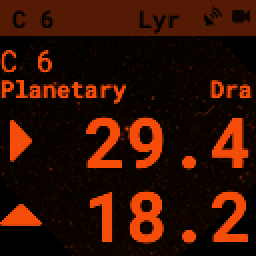
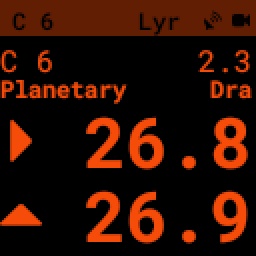
docs: document Contrast Reserve and annotate the Object Details screen (#471)
* docs: document Contrast Reserve and annotate the Object Details screen

Add a Contrast Reserve subsection to the user guide explaining the
upper-right number on the Object Details screen: what it estimates, how
it's derived from sky brightness, telescope aperture, and eyepiece
magnification, an interpretation table, its prerequisites, and the
dedicated page reached with SQUARE.

Update the Object Details screenshots (Push-To and catalog details) so the
contrast reserve value is visible, and add two annotated figures labelling
every region of those two views.

* docs: refresh Object Details screenshots for PR #394, document catalog separators

The Object Details screen changed with PR #394 (#394): angular size now
shows with a unit (°/′/″), the notes group descriptions by catalog behind
labelled separator rules, and catalog images carry NSEW + size overlays.

- Recapture object_details_01/02/03, the Contrast Reserve page, and both
  annotated callout views from the post-#394 screen (C 6, contrast 1.6)
- Add a "Catalog separator" callout to the annotated catalog-details view
- Explain the labelled catalog-separator rules and unit-aware size in prose

* docs: recapture Object Details push-to in Alt/Az mode

The headless config had the global mount_type set to EQ, so the push-to
lines showed +/- RA-Dec offsets instead of the Alt/Az direction arrows —
which also contradicted the "Arrow = turn left/right" annotation labels.
[…]

Pull request: docs: document Contrast Reserve and annotate the Object Details screen
## What

Documents the **Contrast Reserve** feature in the user guide and refreshes the Object Details screenshots.

### Docs (`user_guide.rst`, Object Details section)
- New **Contrast Reserve** subsection: what the upper-right number estimates, how it's derived (object brightness/size vs. sky brightness, telescope aperture, eyepiece magnification), the dedicated page reached with **SQUARE**, an interpretation table using the exact on-screen phrases ("Object is not visible" → "Very easy to see"), prerequisites (active telescope + eyepiece, an SQM reading, known magnitude/size), and a note tying it to the SQM.
- A forward-link to it from the Push-To prose.
- New **What each part of the screen shows** subsection with two annotated layout figures.

### Screenshots
- `object_details_01.png` / `object_details_03.png` — updated so the contrast reserve value shows in the upper right (captured on Caldwell 6 in the house amber style).
- `object_details_contrast.png` — new: the Contrast Reserve page.
- `object_details_pushto_annotated.png` / `object_details_notes_annotated.png` — new: labelled diagrams of the Push-To and catalog-details views.

## Testing
- `sphinx-build -n` (nitpicky) builds clean; both new cross-references resolve.

🤖 Generated with [Claude Code](https://claude.com/claude-code)

diff --git a/docs/source/user_guide.rst b/docs/source/user_guide.rst
@@ -254,6 +254,10 @@ view, getting them below 0.25 (half the true field) should put the object in vie
 Closer to zero means more centered.  For a very dim object, knowing it's dead center and
 consulting the object image can make all the difference.
 
+The number in the upper right is the object's
+:ref:`contrast reserve <user_guide:contrast reserve>` — an estimate of how easily it
+should show in your eyepiece tonight.
+
 .. image:: images/user_guide/object_details_02.png
 
 The PiFinder can display images of every object in its catalog.  See the section on
@@ -261,9 +265,70 @@ The PiFinder can display images of every object in its catalog.  See the section
 
 .. image:: images/user_guide/object_details_03.png
 
-Depending on the catalog, the PiFinder may have detailed notes along with Type,
-constellation, magnitude, and size.  Use the **+/-** keys to scroll the notes field.  At
-the bottom of the notes is a count of how many times you've logged this object.
+Depending on the catalog, the PiFinder may have detailed notes alongside the object's type,
+constellation, magnitude, and size — the size is shown in degrees, arcminutes, or arcseconds,
+whichever best suits the object.  Use the **+/-** keys to scroll the notes.
+
+Many objects carry more than one catalog designation, and the notes can gather a description
+from each.  A bright horizontal rule labelled with the catalog and number — for example
+*NGC 6543* — sets one catalog's notes off from the next, so you can see at a glance where
+each note comes from.  The notes finish with a count of how many times you've logged the
+object, marked by its own rule (it reads *Not Logged* until your first sighting).
+
+What each part of the screen shows
+^^^^^^^^^^^^^^^^^^^^^^^^^^^^^^^^^^^
+
+The Object Details screen packs a lot in.  These two views label every part — the Push-To
+screen, and the catalog details you reach by pressing **SQUARE**:
+
+.. image:: images/user_guide/object_details_pushto_annotated.png
+
+.. image:: images/user_guide/object_details_notes_annotated.png
+
+Contrast Reserve
+^^^^^^^^^^^^^^^^^
+
+The number in the upper right of the Object Details screen is the **contrast reserve** — an
+estimate of how easily an object should stand out in your eyepiece.  It weighs the object's
+brightness and size against your sky brightness, your telescope's aperture, and the
+magnification of your active eyepiece, then compares the result to what the eye can detect.
+A higher number means the object should be easier to see.
+
+.. image:: images/user_guide/object_details_contrast.png
+
+Keep pressing **SQUARE** to reach the Contrast Reserve page, which shows the value on its
+own with a plain-language reading of what to expect:
+
+.. list-table::
+   :header-rows: 1
+
+   * - Contrast reserve
+     - What to expect
+   * - Below −0.2
+     - Object is not visible
+   * - −0.2 to 0.1
+     - Questionable detection
+   * - 0.1 to 0.35
+     - Difficult to see
+   * - 0.35 to 0.5
+     - Quite difficult to see
+   * - 0.5 to 1.0
+     - Easy to see
+   * - 1.0 and above
+     - Very easy to see
+
+The contrast reserve appears only when the PiFinder has everything it needs to work it out:
+an active :ref:`telescope and eyepiece <equipment:choosing your active telescope and eyepiece>`,
+a sky-brightness reading, and an object with a known magnitude and size.  If any of these is
+missing — a double star with no single magnitude, or before the camera has estimated the sky
+brightness — the number is simply left off.
+
+.. note::
+   The sky-brightness figure comes from the PiFinder's Sky Quality Meter (SQM), its
+   camera-based estimate of how dark your sky is, so the contrast reserve tracks your real
+   conditions: the same object reads higher under a dark sky than from town.  Treat it as a
+   guide rather than a guarantee — averted vision, transparency, and how dark-adapted you
+   are all still play their part at the eyepiece.
 
 Filters
 ----------